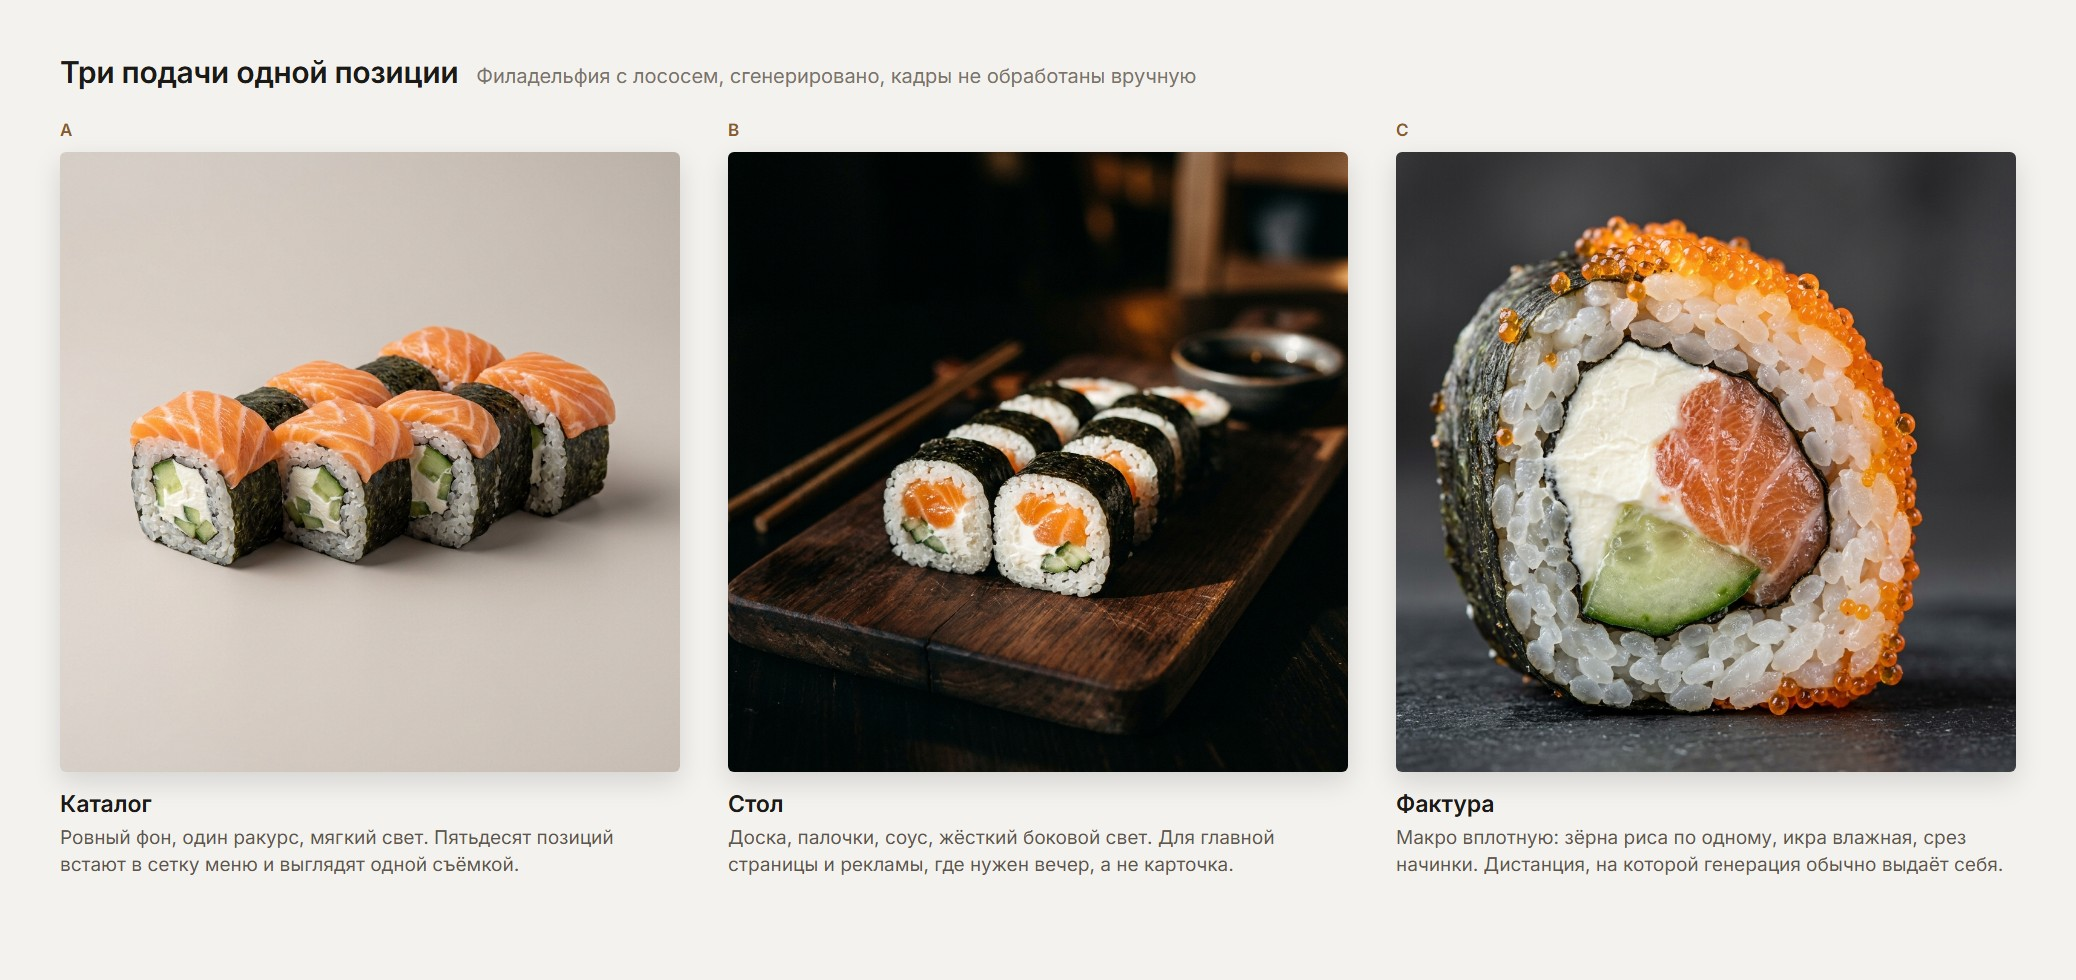
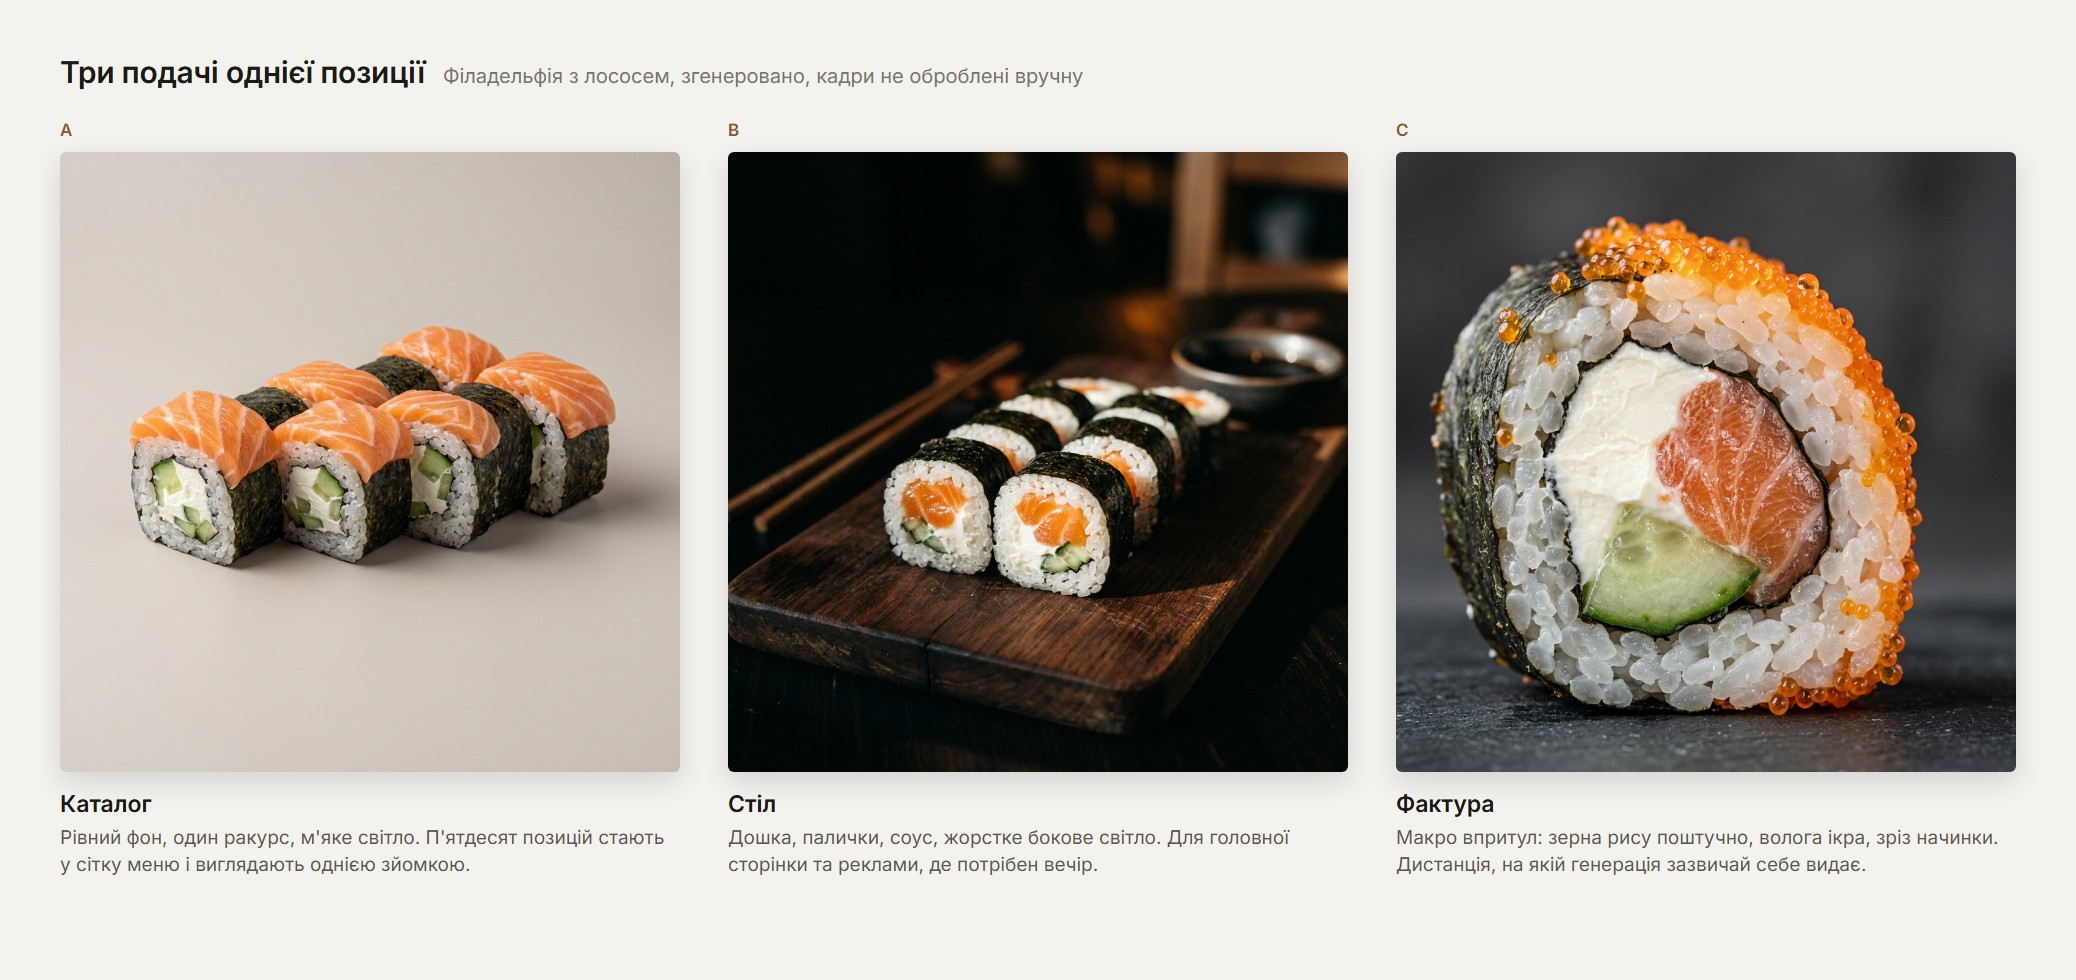
Translate sushi-50 page to Ukrainian
Convert page content from Russian to Ukrainian, including title, heading, description text, and image alt text. Also update the sushi sheet image.

diff --git a/s/sushi-50/index.html b/s/sushi-50/index.html
@@ -3,7 +3,7 @@
 <head>
 <meta charset="utf-8">
 <meta name="viewport" content="width=device-width, initial-scale=1">
-<title>Суши: три подачи одной позиции</title>
+<title>Суші: три подачі однієї позиції</title>
 <style>
   :root { color-scheme: light dark; }
   * { box-sizing: border-box; }
@@ -50,10 +50,10 @@
 </head>
 <body>
   <div class="wrap">
-    <h1>Суши: три подачи одной позиции</h1>
-    <p class="note">Пробные кадры, сделаны до отклика на проект. Ролл во всех трёх один и тот же, меняется только подача.</p>
+    <h1>Суші: три подачі однієї позиції</h1>
+    <p class="note">Пробні кадри, зроблені до відгуку на проєкт. Ролл на всіх трьох однаковий, змінюється тільки подача.</p>
 
-    <figure><img src="sushi-sheet.jpg" alt="Суши: три подачи одной позиции"></figure>
+    <figure><img src="sushi-sheet.jpg" alt="Суші: три подачі однієї позиції"></figure>
     <footer>Рабочий эскиз. Палитра, пропорции и детали настраиваются под задачу.</footer>
   </div>
 </body>
